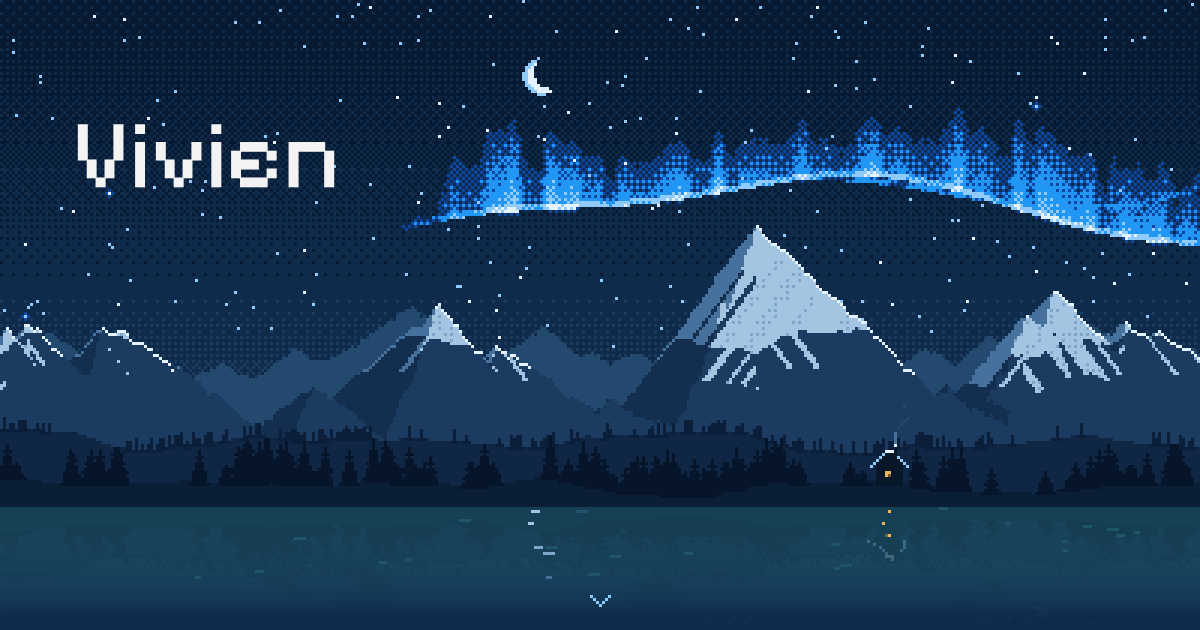
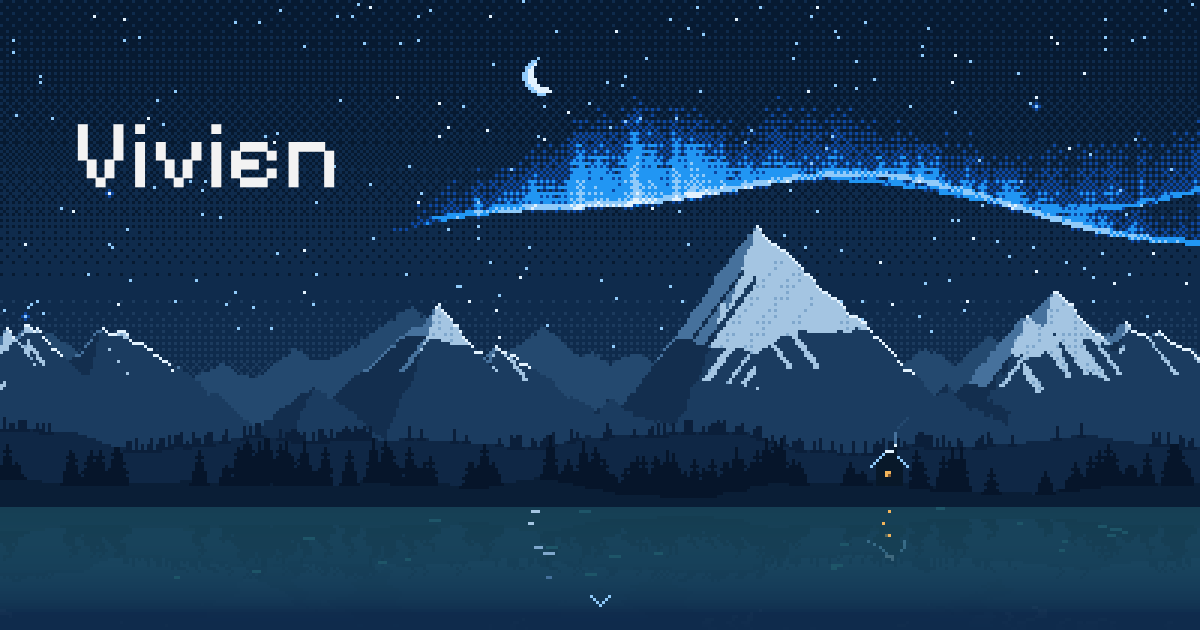
Aurora as a curtain, not a treeline
Its spiky dithered tops read as a row of blue pines echoing the real
treeline. Folds now sway slowly with faint vertical streaks, light
pools at the hem and thins upward, and the top dissolves into the sky.

Claude-Session: https://claude.ai/code/session_01W1WJo8FCiKhhtBsWrrJKbP

Changed region(s): [[0.3392, 0.1508, 1.0, 0.3921]]

diff --git a/scene.js b/scene.js
@@ -317,8 +317,11 @@
           + Math.sin(u * 6.0 + t * 0.3 + k * 2) * horizon * 0.08
           + Math.sin(u * 17.0 - t * 0.6) * horizon * 0.02;
         bottom[x] = bt;
-        len[x] = horizon * (0.2 + 0.14 * nRay(u * 9 + k * 40 + t * 0.15));
-        rays[x] = 0.3 + 0.7 * Math.pow(nRay(x * 0.25 + t * 0.5 + k * 90), 1.4);
+        // broad folds that sway slowly, with a faint fine shimmer; brighter folds reach higher
+        const fold = nRay(u * 7 + t * 0.12 + k * 90);
+        const streak = 0.45 + 0.55 * Math.pow(nRay(x * 0.38 + t * 0.25 + k * 30), 1.5);
+        rays[x] = (0.4 + 0.6 * fold) * streak;
+        len[x] = horizon * (0.1 + 0.2 * fold);
         if (bt - horizon * 0.4 < aurTop) aurTop = bt - horizon * 0.4;
         if (bt + 1 > aurBot) aurBot = bt + 1;
       }
@@ -333,9 +336,10 @@
       const d = aurCols.bottom[k][x] - y;
       if (d < -1 || d > horizon * 0.4) continue;
       const len = aurCols.len[k][x];
-      const prof = d < 0 ? 0.5 : d < 2 ? 1 : Math.max(0, 1 - d / len);
-      const hem = d >= 0 && d < 2 ? 0.35 : 0;
-      const v = env * (aurCols.rays[k][x] * prof * prof + hem) * (k === 0 ? 0.72 : 0.5);
+      // light pools at the hem and thins upward, so the top dissolves into the sky
+      const prof = d < 0 ? 0.45 : Math.max(0, 1 - d / len);
+      const hem = d >= 0 && d < 2 ? 0.3 : 0;
+      const v = env * (aurCols.rays[k][x] * Math.pow(prof, 1.6) + hem) * (k === 0 ? 0.9 : 0.55);
       if (v > best) best = v;
     }
     return best;
@@ -349,7 +353,7 @@
         const i = y * W + x;
         if (base[i]) { buf[i] = base[i]; continue; }
         const a = inAur ? aurora(x, y) : 0;
-        buf[i] = a > 0.12 && a > dither(x + 1, y) * 0.3 ? pack(ramp(AUR, (a - 0.12) / 0.8, x, y)) : sky[x & 3];
+        buf[i] = a > 0.05 + dither(x + 1, y) * 0.22 ? pack(ramp(AUR, (a - 0.05) / 0.85, x, y)) : sky[x & 3];
       }
     }
     for (const s of stars) {

diff --git a/DESIGN.md b/DESIGN.md
@@ -197,7 +197,7 @@ Square and hard-edged throughout (`rounded.none`). Both canvases render with `im
 The page has no buttons, inputs, navigation, or cards, by product decision (no links). The recurring pieces are scene, type, the ledger, and pixel marks.
 
 ### Pixel Night Scene (signature)
-- **What:** a full-bleed canvas in the hero, drawn procedurally from fixed seeds so every visit shows the same place: stars, a crescent moon, two drifting aurora curtains, a hazy back range, an alpine range with one tall horn, shouldered peaks, an uneven snowline, rock ribs and snow couloirs, forested foothills with a comb of small pines, a pine shore, one cabin with roof snow, a lit window and a chimney, and the reflecting fjord. The sky is clear: no snow falls in the hero, so nothing crosses the name.
+- **What:** a full-bleed canvas in the hero, drawn procedurally from fixed seeds so every visit shows the same place: stars, a crescent moon, two drifting aurora curtains (broad slow folds with faint vertical streaks, brightest at a lit hem, dissolving upward into the sky through dither so the top never forms a hard spiky edge), a hazy back range, an alpine range with one tall horn, shouldered peaks, an uneven snowline, rock ribs and snow couloirs, forested foothills with a comb of small pines, a pine shore, one cabin with roof snow, a lit window and a chimney, and the reflecting fjord. The sky is clear: no snow falls in the hero, so nothing crosses the name.
 - **Rendering:** low-resolution buffer (about 320 art pixels across on desktop) upscaled by an exact whole number (the canvas element is sized to W x scale, overhanging its box by under one art pixel), so every art pixel is the same size; the art scale is published to CSS as `--scene-px`, and the nameplate's padding is rounded to it so the name's pixels sit on the art's. Per frame, the aurora's column terms are computed once and only its band of rows is evaluated; the sky's dither colours are precomputed per row (about 2ms a frame on desktop).
 - **Aurora placement:** on landscape screens the curtain begins a few art pixels to the right of the name's ink, measured after the font loads, so the two never touch.
 - **Motion:** slow aurora drift, star twinkle, a rare shooting star (about 0.8s, first after ~6s, then every ~29s), chimney smoke, water ripple, a short flickering lamp reflection, and the moon's glade (thin dashes that pale from lit to shaded snow with depth, broken across the water beneath the moon, never a solid column), stepped at 10 frames a second. The water fades fully into the page colour before the hero's edge, with no dither stripe. The shore canvas at the page foot keeps the snow falling at two depths, far flakes passing behind the pines, and runs only while it is on screen. It pauses when offscreen or the tab is hidden; with reduced motion it renders one still frame.
